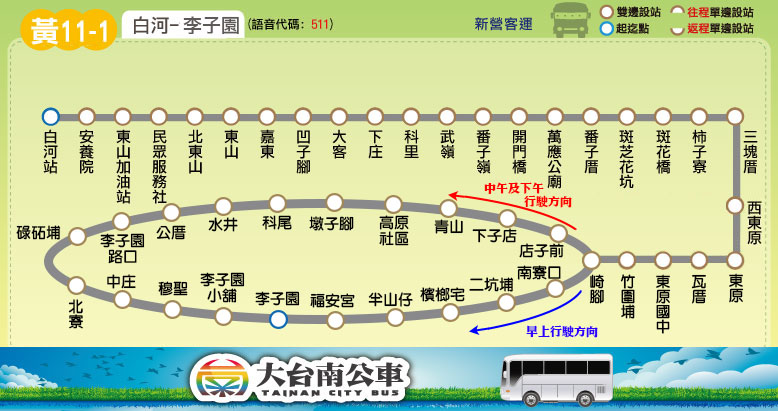
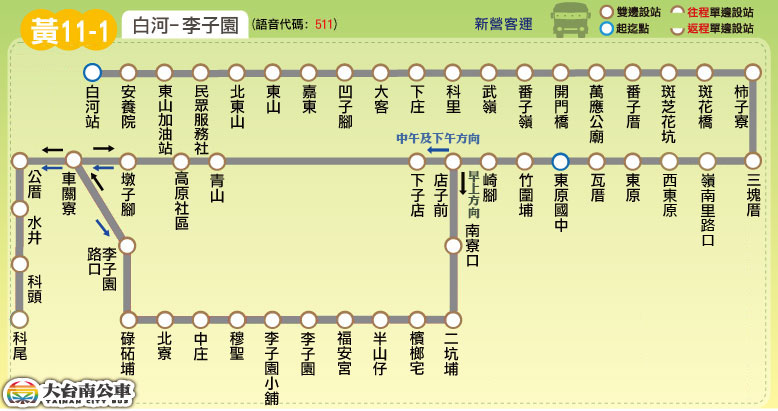
更新路線圖及時刻表：黃11(新增延駛「科尾」班次、部分班次延駛「白河商工」)；新增站位：黃11-1(增「科頭」、「車關寮」)

diff --git a/route/fare_and_time/yellow_11.js b/route/fare_and_time/yellow_11.js
@@ -1,6 +1,6 @@
 yellow_11_interval_name = ["白河","東山","大客","武嶺","番子嶺","斑芝<br />花坑","東原","瓦厝","崎腳","青山"];
 yellow_11_interval_stop = [
-["白河站","安養院"], // 白河
+["白河商工","白河分局","白河站","安養院"], // 白河
 ["東山加油站","民眾服務社","北東山","東山","嘉東"], // 東山
 ["凹子腳","大客","下庄","科里"], // 大客
 ["武嶺"], // 武嶺
@@ -9,7 +9,7 @@ yellow_11_interval_stop = [
 ["三塊厝","嶺南里路口","頭前園仔","西勢角","嶺南里","北大廳","宅子內","西東原","東原"], // 東原
 ["瓦厝","東原國中","竹圍埔"], // 瓦厝
 ["崎腳"], // 崎腳
-["店子前","下子店","青山"] // 青山
+["店子前","下子店","青山","高原社區","墩子腳","車關寮","公厝","水井","科頭","科尾"] // 青山
 ];
 yellow_11_fare = [
 [26],
@@ -26,11 +26,14 @@ yellow_11_fare = [
 // format = [time at the start stop] or
 // [time, other] or
 // [time, start_stop, end_stop, other]
-yellow_11_main_stop_name = ["白河","東山","嶺南里","宅子內","斑花橋","東原","青山"];
-yellow_11_main_stop_time_consume = [0, 5, 25, 27, 16, 22, 27];
-yellow_11_important_stop = [0, 1, 3, 6]; // 白河, 東山, 宅子內, 青山
-var start_stop = 0; // 白河
-var stop_1 = 2; // 嶺南里
-var stop_2 = 3; // 宅子內
-yellow_11_time_go = [["06:00",[stop_1,stop_2]],["06:05",[[stop_2+1,13]]],["07:20",[stop_1,stop_2]],["09:10",[stop_1,stop_2]],["10:40",[[stop_2+1,13]]],["12:00",[stop_1,stop_2]],["13:40",[stop_1,stop_2]],["15:00",[stop_1,stop_2]],["16:20",[stop_1,stop_2]],["17:15",[stop_1,stop_2]],["17:40",[[stop_2+1,13]]],["18:15",[stop_1,stop_2]]];
-yellow_11_time_return = [["06:35",[stop_1,stop_2]],["06:50",[[stop_2,13]]],["07:50",[stop_1,stop_2]],["09:40",[stop_1,stop_2]],["11:25",[[stop_2,13]]],["12:30",[stop_1,stop_2]],["14:10",[stop_1,stop_2]],["15:30",[stop_1,stop_2]],["16:55",[[stop_2,13]]],["17:50",[stop_1,stop_2]],["18:25",[stop_1,stop_2]],["18:50",[stop_1,stop_2]]];
+yellow_11_main_stop_name = ["白河商工","白河","東山","嶺南里","宅子內","斑花橋","東原","青山","科尾"];
+yellow_11_main_stop_time_consume = [0, 2, 7, 27, 29, 18, 24, 29, 32];
+yellow_11_important_stop = [0, 1, 2, 7]; // 白河商工, 白河, 東山, 青山
+var start_stop = 1; // 白河
+var start_stop_2 = 0; // 白河商工
+var end_stop = 7; // 青山
+var end_stop_2 = 8; // 科尾
+var stop_1 = 3; // 嶺南里
+var stop_2 = 4; // 宅子內
+yellow_11_time_go = [["06:00",start_stop,end_stop,[stop_1,stop_2]],["06:05",start_stop,end_stop,[[stop_2+1,13]]],["07:20",start_stop,end_stop,[stop_1,stop_2]],["09:10",start_stop,end_stop,[stop_1,stop_2]],["09:30",start_stop,end_stop_2,[[stop_2+1,13]]],["10:40",start_stop,end_stop,[[stop_2+1,13]]],["12:00",start_stop,end_stop,[stop_1,stop_2]],["13:40",start_stop,end_stop,[stop_1,stop_2]],["15:00",start_stop,end_stop,[stop_1,stop_2]],["16:18",start_stop_2,end_stop,[stop_1,stop_2]],["17:13",start_stop_2,end_stop,[stop_1,stop_2]],["17:40",start_stop,end_stop,[[stop_2+1,13]]],["18:15",start_stop,end_stop,[stop_1,stop_2]]];
+yellow_11_time_return = [["06:35",end_stop,start_stop,[stop_1,stop_2]],["06:50",end_stop,start_stop_2,[[stop_2,13]]],["07:50",end_stop,start_stop,[stop_1,stop_2]],["09:40",end_stop,start_stop,[stop_1,stop_2]],["10:20",end_stop_2,start_stop,[[stop_2,13]]],["11:25",end_stop,start_stop,[[stop_2,13]]],["12:30",end_stop,start_stop,[stop_1,stop_2]],["14:10",end_stop,start_stop,[stop_1,stop_2]],["15:30",end_stop,start_stop,[stop_1,stop_2]],["16:55",end_stop,start_stop,[[stop_2,13]]],["17:50",end_stop,start_stop,[stop_1,stop_2]],["18:25",end_stop,start_stop,[stop_1,stop_2]],["18:50",end_stop,start_stop,[stop_1,stop_2]]];

diff --git a/route/fare_and_time/yellow_11_1.js b/route/fare_and_time/yellow_11_1.js
@@ -6,10 +6,10 @@ yellow_11_1_interval_stop = [
 ["武嶺"], // 武嶺
 ["番子嶺"], // 番子嶺
 ["開門橋","萬應公廟","番子厝","斑芝花坑","斑花橋","柿子寮"], // 斑芝花坑
-["三塊厝","西東原","東原"], // 東原
+["三塊厝","嶺南里路口","西東原","東原"], // 東原
 ["瓦厝","東原國中","竹圍埔"], // 瓦厝
 ["崎腳"], // 崎腳
-["店子前","下子店","青山","高原社區","墩子腳","科尾","水井","公厝","李子園路口","碌砳埔"], // 青山
+["店子前","下子店","青山","高原社區","墩子腳","車關寮","公厝","水井","科頭","科尾","李子園路口","碌砳埔"], // 青山
 ["北寮","中庄"], // 北寮
 ["穆聖","李子園小舖","李子園","福安宮","半山仔"], // 李子園
 ["檳榔宅"], // 檳榔宅

diff --git a/yellow/yellow_11.html b/yellow/yellow_11.html
@@ -20,7 +20,7 @@
 	block_route_map(null);
 	block_route_info(route_interval,'新營客運','','里程計費','http://www.2384.com.tw/ebus/jsp/ajaxBus.jsp?pathId=1511&locale=zh_TW');
 	block_fare(0, null);
-	block_time_schedule('白河','青山','');
+	block_time_schedule('白河/白河商工','青山/科尾','');
 	block_transfer(transfer_baihe);
 	block_copyright();
 </script>
